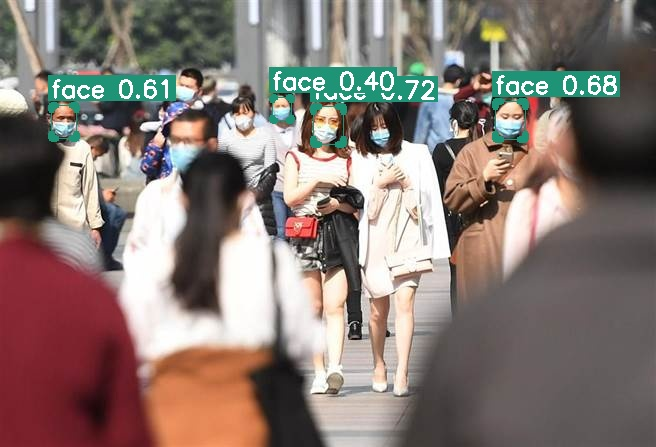
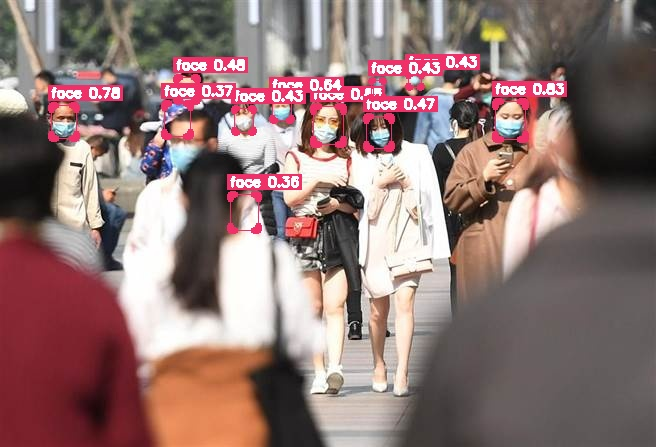
add custom nms and soft-nms.

Changed region(s): [[0.061, 0.1163, 0.9451, 0.349], [0.3354, 0.3781, 0.4573, 0.4653], [0.3354, 0.4944, 0.3963, 0.5235]]

diff --git a/src/nms.cpp b/src/nms.cpp
@@ -1,0 +1,112 @@
+#include "nms.h"
+
+
+static bool nms::sort_score(Detection bbox1, Detection bbox2)
+{
+    return bbox1.conf > bbox2.conf ? true : false;
+}
+
+static float nms::calc_iou(cv::Rect rect1, cv::Rect rect2)
+{
+    int xx1, yy1, xx2, yy2;
+    xx1 = std::max(rect1.x, rect2.x);
+    yy1 = std::max(rect1.y, rect2.y);
+    xx2 = std::min(rect1.x + rect1.width - 1, rect2.x + rect2.width - 1);
+    yy2 = std::min(rect1.y + rect1.height - 1, rect2.y + rect2.height - 1);
+
+    int inter_width = std::max(0, xx2 - xx1 + 1);
+    int inter_height = std::max(0, yy2 - yy1 + 1);
+
+    float inter_area = float(inter_width) * inter_height;
+    float union_area = float(rect1.width * rect1.height + rect2.width * rect2.height - inter_area);
+    float iou = inter_area / union_area;
+    return iou;
+}
+
+
+void nms::nms_boxes(std::vector<cv::Rect> &boxes, std::vector<float> confidences_, float confthreshold, float nmsthreshold, std::vector<int> &indices)
+{
+    Detection bbox;
+    std::vector<Detection> bboxes;
+    int i, j;
+    for (i = 0; i < boxes.size(); i++)
+    {
+        bbox.box = boxes[i];
+        bbox.conf = confidences_[i];
+        bbox.classId = i;
+        bboxes.push_back(bbox);
+    }
+    std::sort(bboxes.begin(), bboxes.end(), sort_score);
+    int k = bboxes.size();
+
+    for (i = 0; i < k; i++)
+    {
+        if (bboxes[i].conf < confthreshold)
+            continue;
+        indices.push_back(bboxes[i].classId);
+        for (j = i + 1; j < k; j++)
+        {
+            float iou = calc_iou(bboxes[i].box, bboxes[j].box);
+            if (iou > nmsthreshold)
+            {
+                bboxes.erase(bboxes.begin() + j);
+                k = bboxes.size();
+                j--; // 修正這裡，將 j 減 1
+            }
+        }
+    }
+
+    // for (int i = 0; i < bboxes.size(); i++)
+    // {
+    //     std::cout << "bboxes:" << bboxes[i].box << std::endl;
+    // }
+}
+
+void nms::soft_nms_boxes(std::vector<cv::Rect> &boxes, std::vector<float> confidences_, float confthreshold, float nmsthreshold, std::vector<int> &indices, float sigma)
+{
+    std::vector<Detection> bboxes;
+    for (int i = 0; i < boxes.size(); i++)
+    {
+        Detection bbox;
+        bbox.box = boxes[i];
+        bbox.conf = confidences_[i];
+        bbox.classId = i;
+        bboxes.push_back(bbox);
+    }
+    std::sort(bboxes.begin(), bboxes.end(), sort_score);
+
+    std::vector<int> temp_indices; // Temporary indices to avoid duplicates
+
+    for (int i = 0; i < bboxes.size(); i++)
+    {
+        if (bboxes[i].conf < confthreshold)
+            continue;
+        
+        // Find the index of the maximum score
+        auto max_it = std::max_element(bboxes.begin() + i + 1, bboxes.end(),
+                                       [](const Detection& a, const Detection& b) { return a.conf < b.conf; });
+        int max_index = std::distance(bboxes.begin(), max_it);
+
+        if (bboxes[i].conf < bboxes[max_index].conf)
+        {
+            std::swap(bboxes[i], bboxes[max_index]);
+        }
+
+        temp_indices.push_back(i); // Use index i instead of classId
+        for (int j = i + 1; j < bboxes.size(); j++)
+        {
+            float iou = calc_iou(bboxes[i].box, bboxes[j].box);
+            float weight = std::exp(-(iou * iou) / sigma);
+            bboxes[j].conf *= weight;
+        }
+    }
+
+    // Thresholding after applying soft-NMS
+    for (int i = 0; i < temp_indices.size(); i++)
+    {
+        if (bboxes[temp_indices[i]].conf >= confthreshold)
+        {
+            indices.push_back(bboxes[temp_indices[i]].classId);
+        }
+    }
+}

diff --git a/src/detector.cpp b/src/detector.cpp
@@ -157,7 +157,8 @@ void YOLODetector::preprocessing(cv::Mat &image, float*& blob, std::vector<int64
     inputTensorShape[2] = resizedImage.rows;
     inputTensorShape[3] = resizedImage.cols;
 
-    LOG(DEBUG) << "resize image shape (H,W):  ("<< image.rows << ", " << image.cols << ") -> (" << resizedImage.rows << ", " << resizedImage.cols << ")";
+    LOG(DEBUG) << "resize image shape (H,W):  ("<< image.rows << ", " << image.cols << ") -> (" 
+               << resizedImage.rows << ", " << resizedImage.cols << ")";
     if (this->num_class == 80) 
         resizedImage.convertTo(floatImage, CV_32FC3, 1 / 255.0);
     else 
@@ -200,8 +201,8 @@ std::vector<Detection> YOLODetector::postprocessing(const cv::Size& resizedImage
         float* outputValues = (float*)outputMatFP32.data;
         for (int r = 0; r < outputShape[1]; r++)
         {
-            float clsConf = outputValues[4];
-            if (clsConf > confThreshold)
+            float clsConf = outputValues[4]; // outputValues[4] = max(outputValue[5:]) First, check if objConf has a score greater than 0.1f.
+            if (clsConf > 0.1f)
             {
                 int width = (int) (outputValues[2]);
                 int height = (int) (outputValues[3]);
@@ -212,29 +213,29 @@ std::vector<Detection> YOLODetector::postprocessing(const cv::Size& resizedImage
                 int classId;
                 this->getBestClassInfo(outputValues, this->num_class, objConf, classId);
 
-                float confidence = clsConf * objConf;
-
                 boxes.emplace_back(left, top, width, height);
-                confs.emplace_back(confidence);
+                confs.emplace_back(objConf);
                 classIds.emplace_back(classId);
             }
             outputValues += outputShape[2];
         }
     }
     std::vector<int> indices;
-    cv::dnn::NMSBoxes(boxes, confs, confThreshold, iouThreshold, indices);
-    LOG(DEBUG) << "amount of NMS indices: " << indices.size();
+    // cv::dnn::NMSBoxes(boxes, confs, confThreshold, iouThreshold, indices);
+    // nms::nms_boxes(boxes, confs, confThreshold, iouThreshold, indices);
+    nms::soft_nms_boxes(boxes, confs, confThreshold, iouThreshold, indices);
+    LOG(DEBUG) << "Amount of NMS indices: " << indices.size();
 
     std::vector<Detection> detections;
 
     for (int idx : indices)
     {
         Detection det;
-        det.box = cv::Rect(boxes[idx]);
-        utils::scaleCoords(resizedImageShape, det.box, originalImageShape);
-
+        utils::scaleCoords(boxes[idx], resizedImageShape, originalImageShape);
+        det.box = boxes[idx];
         det.conf = confs[idx];
         det.classId = classIds[idx];
+
         detections.emplace_back(det);
     }
 

diff --git a/src/utils.cpp b/src/utils.cpp
@@ -164,14 +164,14 @@ void utils::drawDetectOnFrame(cv::Mat& image, std::vector<Detection>& detections
 
         utils::cornerRect(image, detection.box, classColors[classId]);
         int baseline = 0;
-        cv::Size size = cv::getTextSize(label, cv::FONT_ITALIC, 0.8, 2, &baseline);
+        cv::Size size = cv::getTextSize(label, cv::FONT_ITALIC, 0.45, 2, &baseline);
         cv::rectangle(image,
-                      cv::Point(x-3, y - 30), cv::Point(x + size.width, y-5),
+                      cv::Point(x-3, y - 20), cv::Point(x + size.width, y-5),
                       classColors[classId], -1);
 
         cv::putText(image, label,
                     cv::Point(x, y - 8), cv::FONT_ITALIC,
-                    0.8, cv::Scalar(255, 255, 255), 2);
+                    0.45, cv::Scalar(255, 255, 255), 2);
     }
 }
 
@@ -226,7 +226,7 @@ void utils::letterBox(const cv::Mat& image, cv::Mat& outImage,
     cv::copyMakeBorder(outImage, outImage, top, bottom, left, right, cv::BORDER_CONSTANT, color);
 }
 
-void utils::scaleCoords(const cv::Size& imageShape, cv::Rect& coords, const cv::Size& imageOriginalShape)
+void utils::scaleCoords(cv::Rect& coords, const cv::Size& imageShape, const cv::Size& imageOriginalShape)
 {
     float gain = std::min((float)imageShape.height / (float)imageOriginalShape.height,
                           (float)imageShape.width / (float)imageOriginalShape.width);

diff --git a/include/nms.h b/include/nms.h
@@ -1,0 +1,23 @@
+#include <opencv2/opencv.hpp>
+#include "utils.h"
+
+
+namespace nms
+{
+    static bool sort_score(Detection bbox1, Detection bbox2);
+    static float calc_iou(cv::Rect rect1, cv::Rect rect2);
+
+    void nms_boxes(std::vector<cv::Rect> &boxes, 
+                   std::vector<float> confidences_, 
+                   float confthreshold, 
+                   float nmsthreshold, 
+                   std::vector<int> &indices);
+
+    void soft_nms_boxes(std::vector<cv::Rect> &boxes, 
+                        std::vector<float> confidences_, 
+                        float confthreshold, 
+                        float nmsthreshold, 
+                        std::vector<int> &indices,
+                        float sigma=0.5);
+
+}

diff --git a/src/main.cpp b/src/main.cpp
@@ -22,7 +22,7 @@ int main(int argc, char* argv[])
     cmd.add<std::string>("model_path", 'm', "Path to onnx model.", true, "yolov5.onnx");
     cmd.add<std::string>("source", 's', "Source to be detected.", true, "video.mp4");
     cmd.add<std::string>("class_names", 'c', "Path to class names file.", true, "coco.names");
-    cmd.add<std::string>("score_thres", '\0', "Confidence threshold for categories.", false, "0.3f");
+    cmd.add<std::string>("score_thres", '\0', "Confidence threshold for categories.", false, "0.35f");
     cmd.add<std::string>("iou_thres", '\0', "Overlap threshold.", false, "0.4f");
 
     cmd.add("gpu", '\0', "Inference on cuda device.");

diff --git a/include/utils.h b/include/utils.h
@@ -53,7 +53,7 @@ namespace utils
                    bool scaleUp,
                    int stride);
 
-    void scaleCoords(const cv::Size& imageShape, cv::Rect& box, const cv::Size& imageOriginalShape);
+    void scaleCoords(cv::Rect& box, const cv::Size& imageShape, const cv::Size& imageOriginalShape);
     template <typename T>
     T clip(const T& n, const T& lower, const T& upper);
 }

diff --git a/include/detector.h b/include/detector.h
@@ -4,6 +4,7 @@
 #include <utility>
 
 #include "utils.h"
+#include "nms.h"
 
 static uint16_t float32_to_float16(float& input_fp32);
 static float float16_to_float32(uint16_t& input_fp16);
